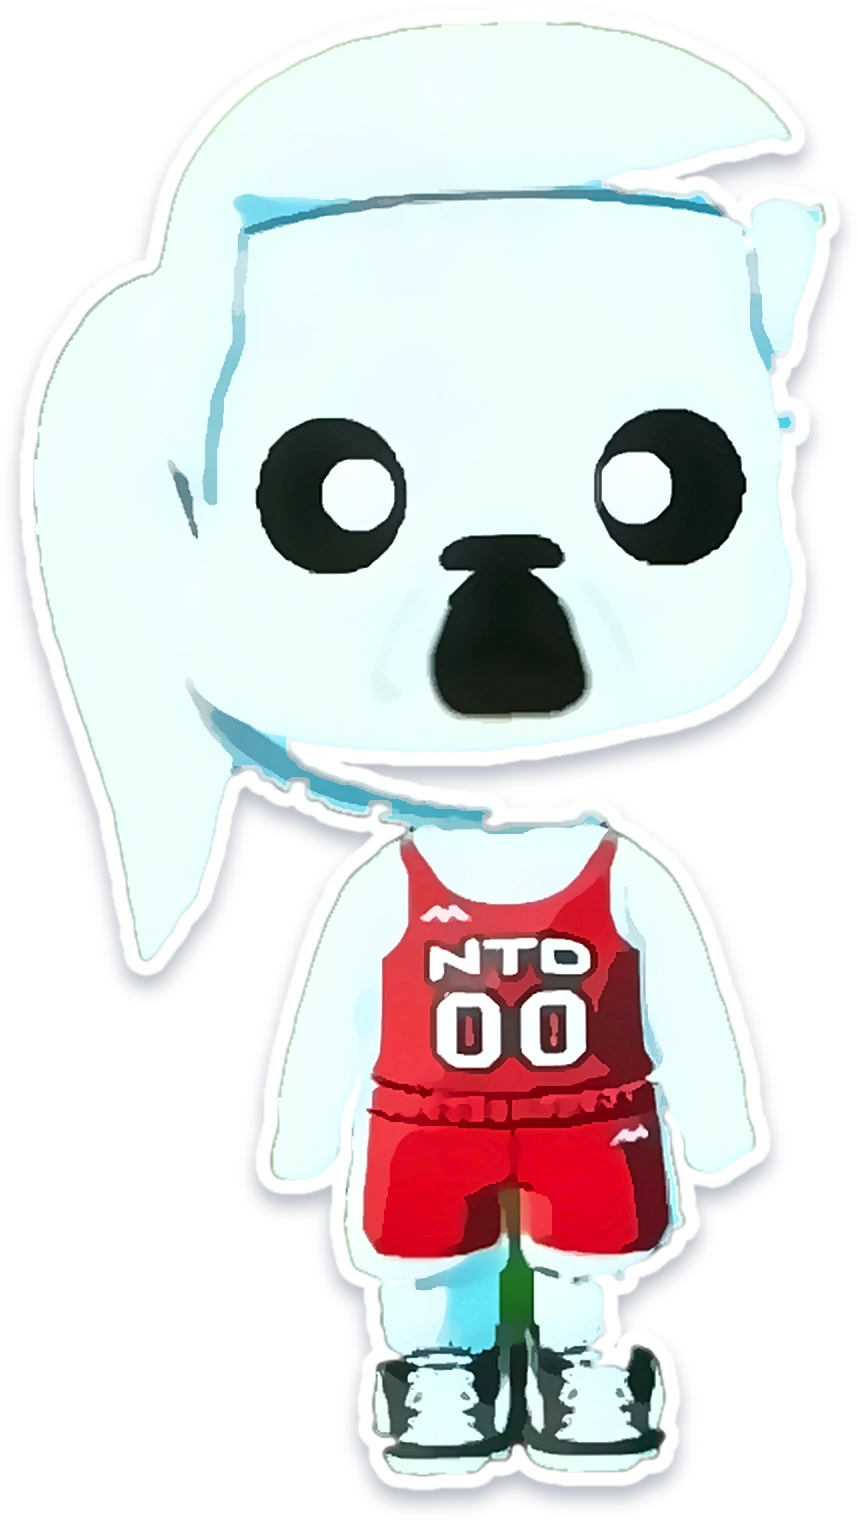
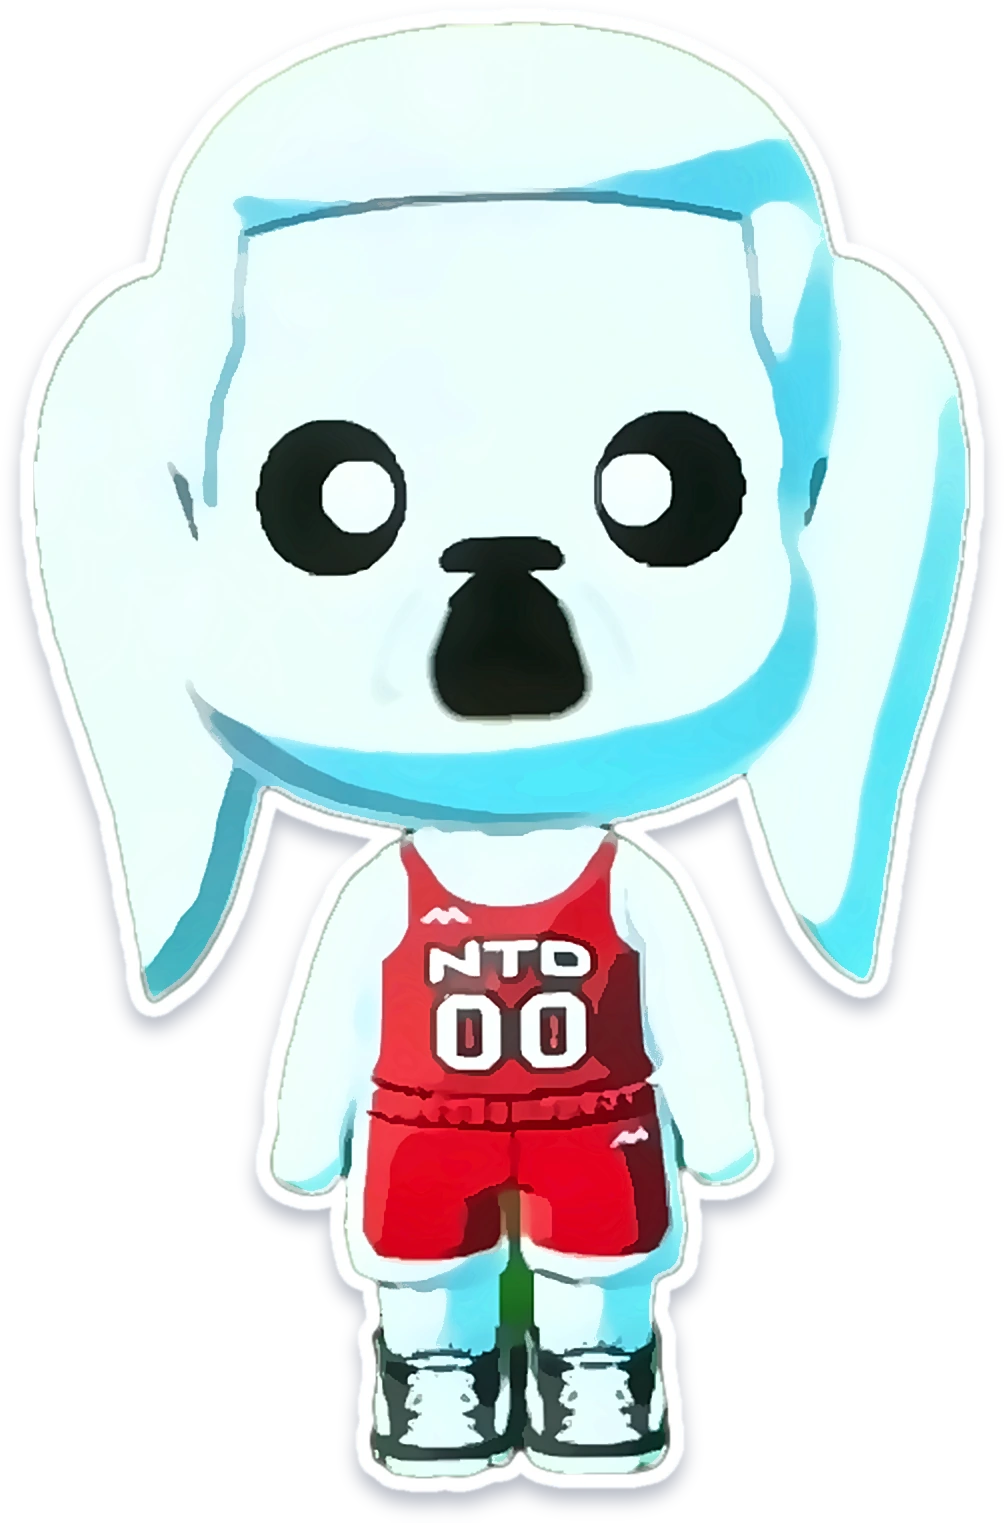
こんぺきの切り抜きを修正（右耳が欠けていた）
- 切り抜き処理で小さなパーツを落としていたため、頭につながる耳が消えていた。耳をふくめて切り抜き直し

Claude-Session: https://claude.ai/code/session_01MYVsZGyVDsLvuu51XL38yz

diff --git a/index.html b/index.html
@@ -622,7 +622,7 @@ section.view{position:relative}
     <div class="miis">
       <div class="mii sai" role="button" tabindex="0" aria-label="さいけうに話しかける"><img src="sai.webp" alt="さいけうのMii" width="1130" height="2157"><span class="nameplate">さいけう</span></div>
       <div class="mii yui" role="button" tabindex="0" aria-label="ゆいちゃんに話しかける"><img src="yui.webp" alt="ゆいちゃんのMii" width="842" height="1947"><span class="nameplate">ゆいちゃん</span></div>
-      <div class="mii kon" role="button" tabindex="0" aria-label="こんぺきに話しかける"><img src="kon.webp" alt="こんぺきのMii" width="859" height="1521"><span class="nameplate">こんぺき</span></div>
+      <div class="mii kon" role="button" tabindex="0" aria-label="こんぺきに話しかける"><img src="kon.webp" alt="こんぺきのMii" width="1004" height="1523"><span class="nameplate">こんぺき</span></div>
     </div>
   </header>
 
